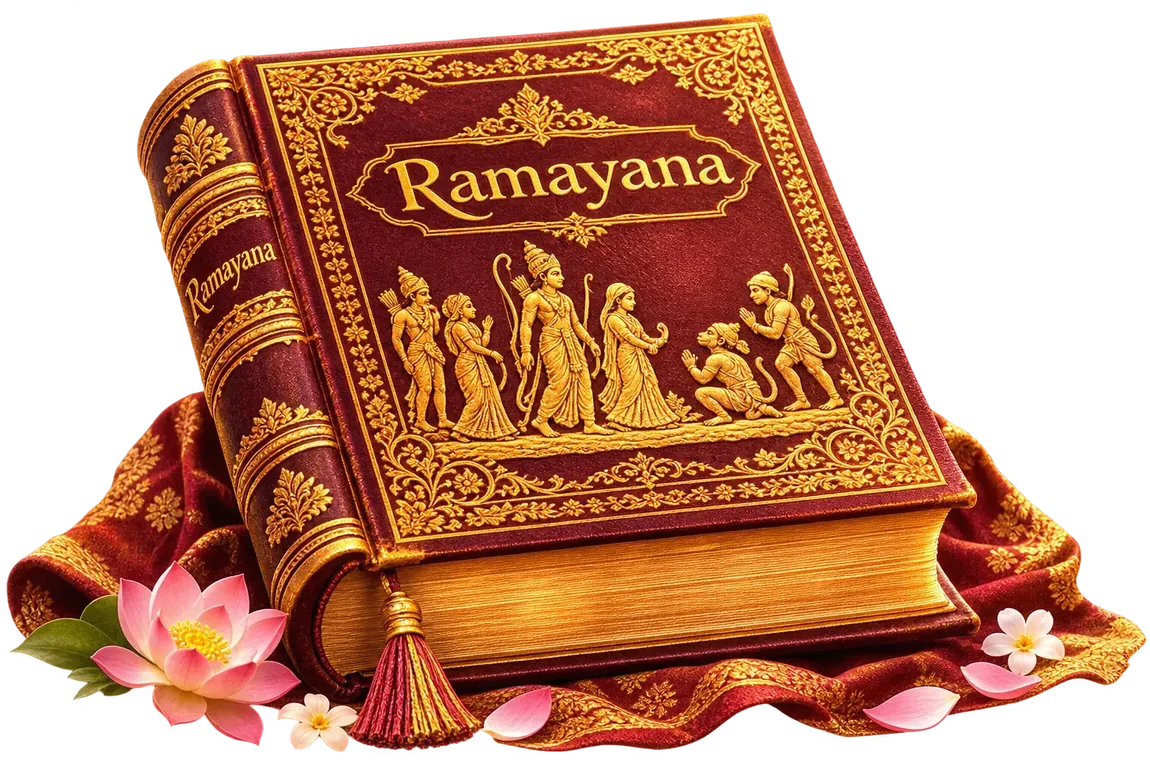
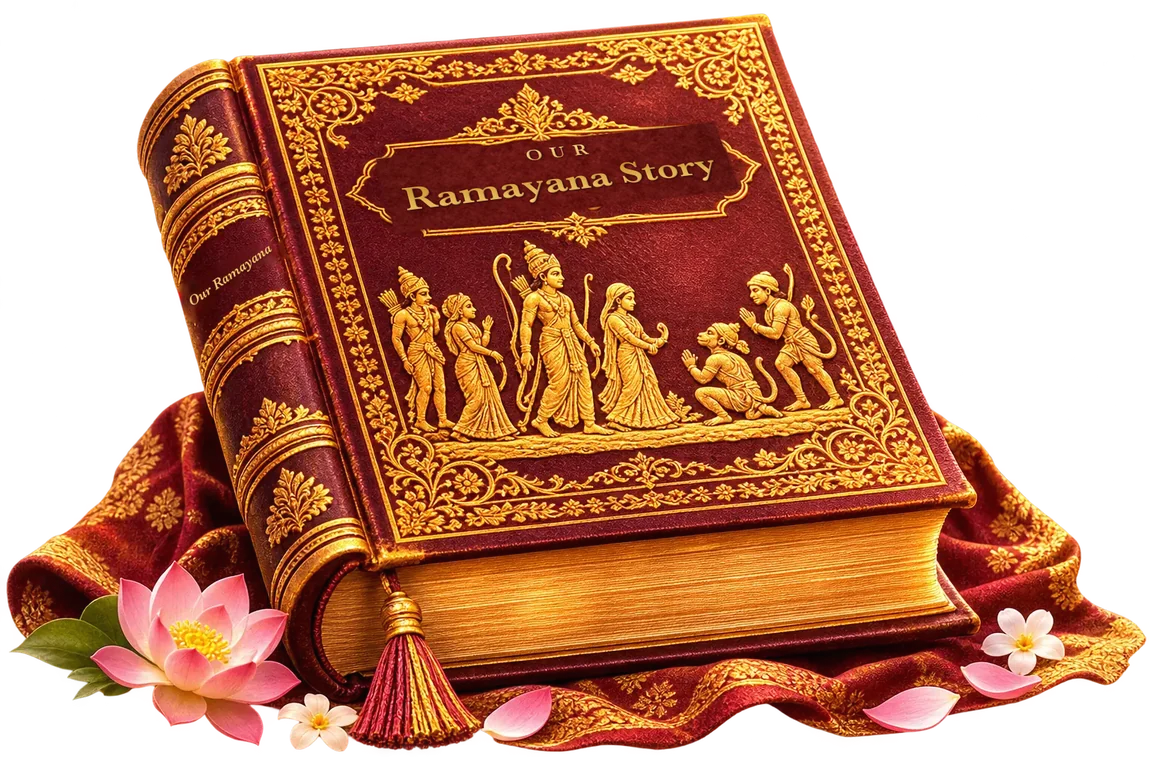
Book title: Our Ramayana Story on the cover and Our Ramayana on the spine

Changed region(s): [[0.3348, 0.1499, 0.6391, 0.2999], [0.1522, 0.2999, 0.2435, 0.4198]]

diff --git a/index.html b/index.html
@@ -461,7 +461,7 @@
     </header>
     <!-- Our story as a Ramayana: the book opens as you arrive, and its pages turn one by one -->
     <div class="rbook-stage" id="rbookStage">
-      <img decoding="async" class="rbook-intro" id="rbookIntro" src="assets/story/ramayana-book.webp" alt="">
+      <img decoding="async" class="rbook-intro" id="rbookIntro" src="assets/story/ramayana-book.webp?v=2" alt="">
       <button type="button" class="rbook-openhint" id="rbookOpen" aria-label="Open the book"><span>Our Ramayana</span>Tap to open the book</button>
       <div class="rbook" id="rbook" aria-label="Our love story, written like the Ramayana">
         <div class="rbook__board rbook__board--l"></div>
@@ -469,7 +469,7 @@
         <div class="rbook__edges rbook__edges--r"></div>
         <div class="rbook__edges rbook__edges--l"></div>
           <div class="rbook__leaf" data-leaf="0">
-            <div class="rbook__face rbook__face--front rbook__cover"><img decoding="async" src="assets/story/ramayana-cover.webp" alt="Ramayana — our love story, bound in maroon and gold"></div>
+            <div class="rbook__face rbook__face--front rbook__cover"><img decoding="async" src="assets/story/ramayana-cover.webp?v=2" alt="Our Ramayana Story — our love story, bound in maroon and gold"></div>
             <div class="rbook__face rbook__face--back"><div class="rpage rpage--lotus rpage--title">
               <img decoding="async" class="rpage__corner rpage__corner--l" src="assets/story/lotus-embroidery.webp" alt="">
               <span class="rpage__bloom rpage__bloom--big"><img decoding="async" src="assets/flowers/lotus-photo-bloom-01.webp" alt=""></span>

diff --git a/README.md b/README.md
@@ -31,7 +31,7 @@ To publish it, upload the whole folder to any static host (Netlify, Vercel, GitH
 | 04 | **Save the Date** (`#save-the-date`) | On a crimson background with falling marigold petals, Shri Ram's golden bow draws back. The arrow flies (tap the bow, or it releases by itself), breaks a golden seal with a cracker "pop" and a burst of marigolds, and the date appears in a gold ring between two rising gold poles flying Shri Ram Mandir saffron flags. Includes an Add to calendar button (.ics). |
 | 05 | **Countdown** (`#countdown`) | "The Royal Timepiece": the gold lotus chakra as a clock dial (days in the centre, hours, minutes and seconds around it, a ticking gold hand), with countdown tiles below. |
 | 06 | **Ram Bhakt Hanuman** (`#hanuman`) | Hanuman kneels in prayer; a glow builds at his heart, which opens to show Ram & Sita. Verse from the Hanuman Chalisa. |
-| 07 | **Our Story** (`#story`) | Our love story as a Ramayana book. As you arrive, the maroon-and-gold Ramayana book appears and its cover opens. Each page turn first blooms a lotus, then the couple's photo is taped in like a scrapbook and a short chapter is written beside it (Bala, Ayodhya, Kishkindha, Sundara Kanda, then "…and the story continues"). Pages turn by themselves every few seconds, or with the ‹ › buttons, a tap on the page or a swipe. From the first page, ‹ closes the book: the cover turns back and the grand Ramayana book returns, with "Tap to open the book". On phones one page shows at a time. Embroidered lotuses sit in the page corners. |
+| 07 | **Our Story** (`#story`) | Our love story as a Ramayana book. As you arrive, the maroon-and-gold book titled "Our Ramayana Story" appears and its cover opens. Each page turn first blooms a lotus, then the couple's photo is taped in like a scrapbook and a short chapter is written beside it (Bala, Ayodhya, Kishkindha, Sundara Kanda, then "…and the story continues"). Pages turn by themselves every few seconds, or with the ‹ › buttons, a tap on the page or a swipe. From the first page, ‹ closes the book: the cover turns back and the grand Ramayana book returns, with "Tap to open the book". On phones one page shows at a time. Embroidered lotuses sit in the page corners. |
 | 08 | **Our Families** (`#families`) | One big gold medallion per family with both parents together. As you scroll, a single gold line with a glowing tip draws each arched frame (up, over the arch, down and along the bottom), then the card fills in and five lotuses bloom on the bottom line. |
 | 09 | **Wedding Events** (`#events`) | "Through the Palace Doors", on a rani pink background with a slowly turning gold chakra. As the section comes into view a lotus blooms and Hanuman rises from it, blessing every celebration. One palace window per celebration. The doors open on a picture of the event, a details card pops up with a glowing Get directions button (Google Maps), then the doors close and the next window rises into place. |
 | 10 | **Wishing Wall** (`#wishes`) | The whole section sits in a soft pink sunset sky. Jatayu, the divine eagle, flies above a golden lotus frame holding a hanging scroll that shows one blessing at a time, with arrows to move through them (it also turns by itself every few seconds). Guests write a blessing below; the lotus carries it up to the scroll, petals fall, and the new blessing appears first. A "View all wishes" button brings Jatayu flying down holding a royal scroll by two golden ropes; the scroll unrolls from top to bottom to show every blessing, each with its own lotus, and closes by rolling back up. |
